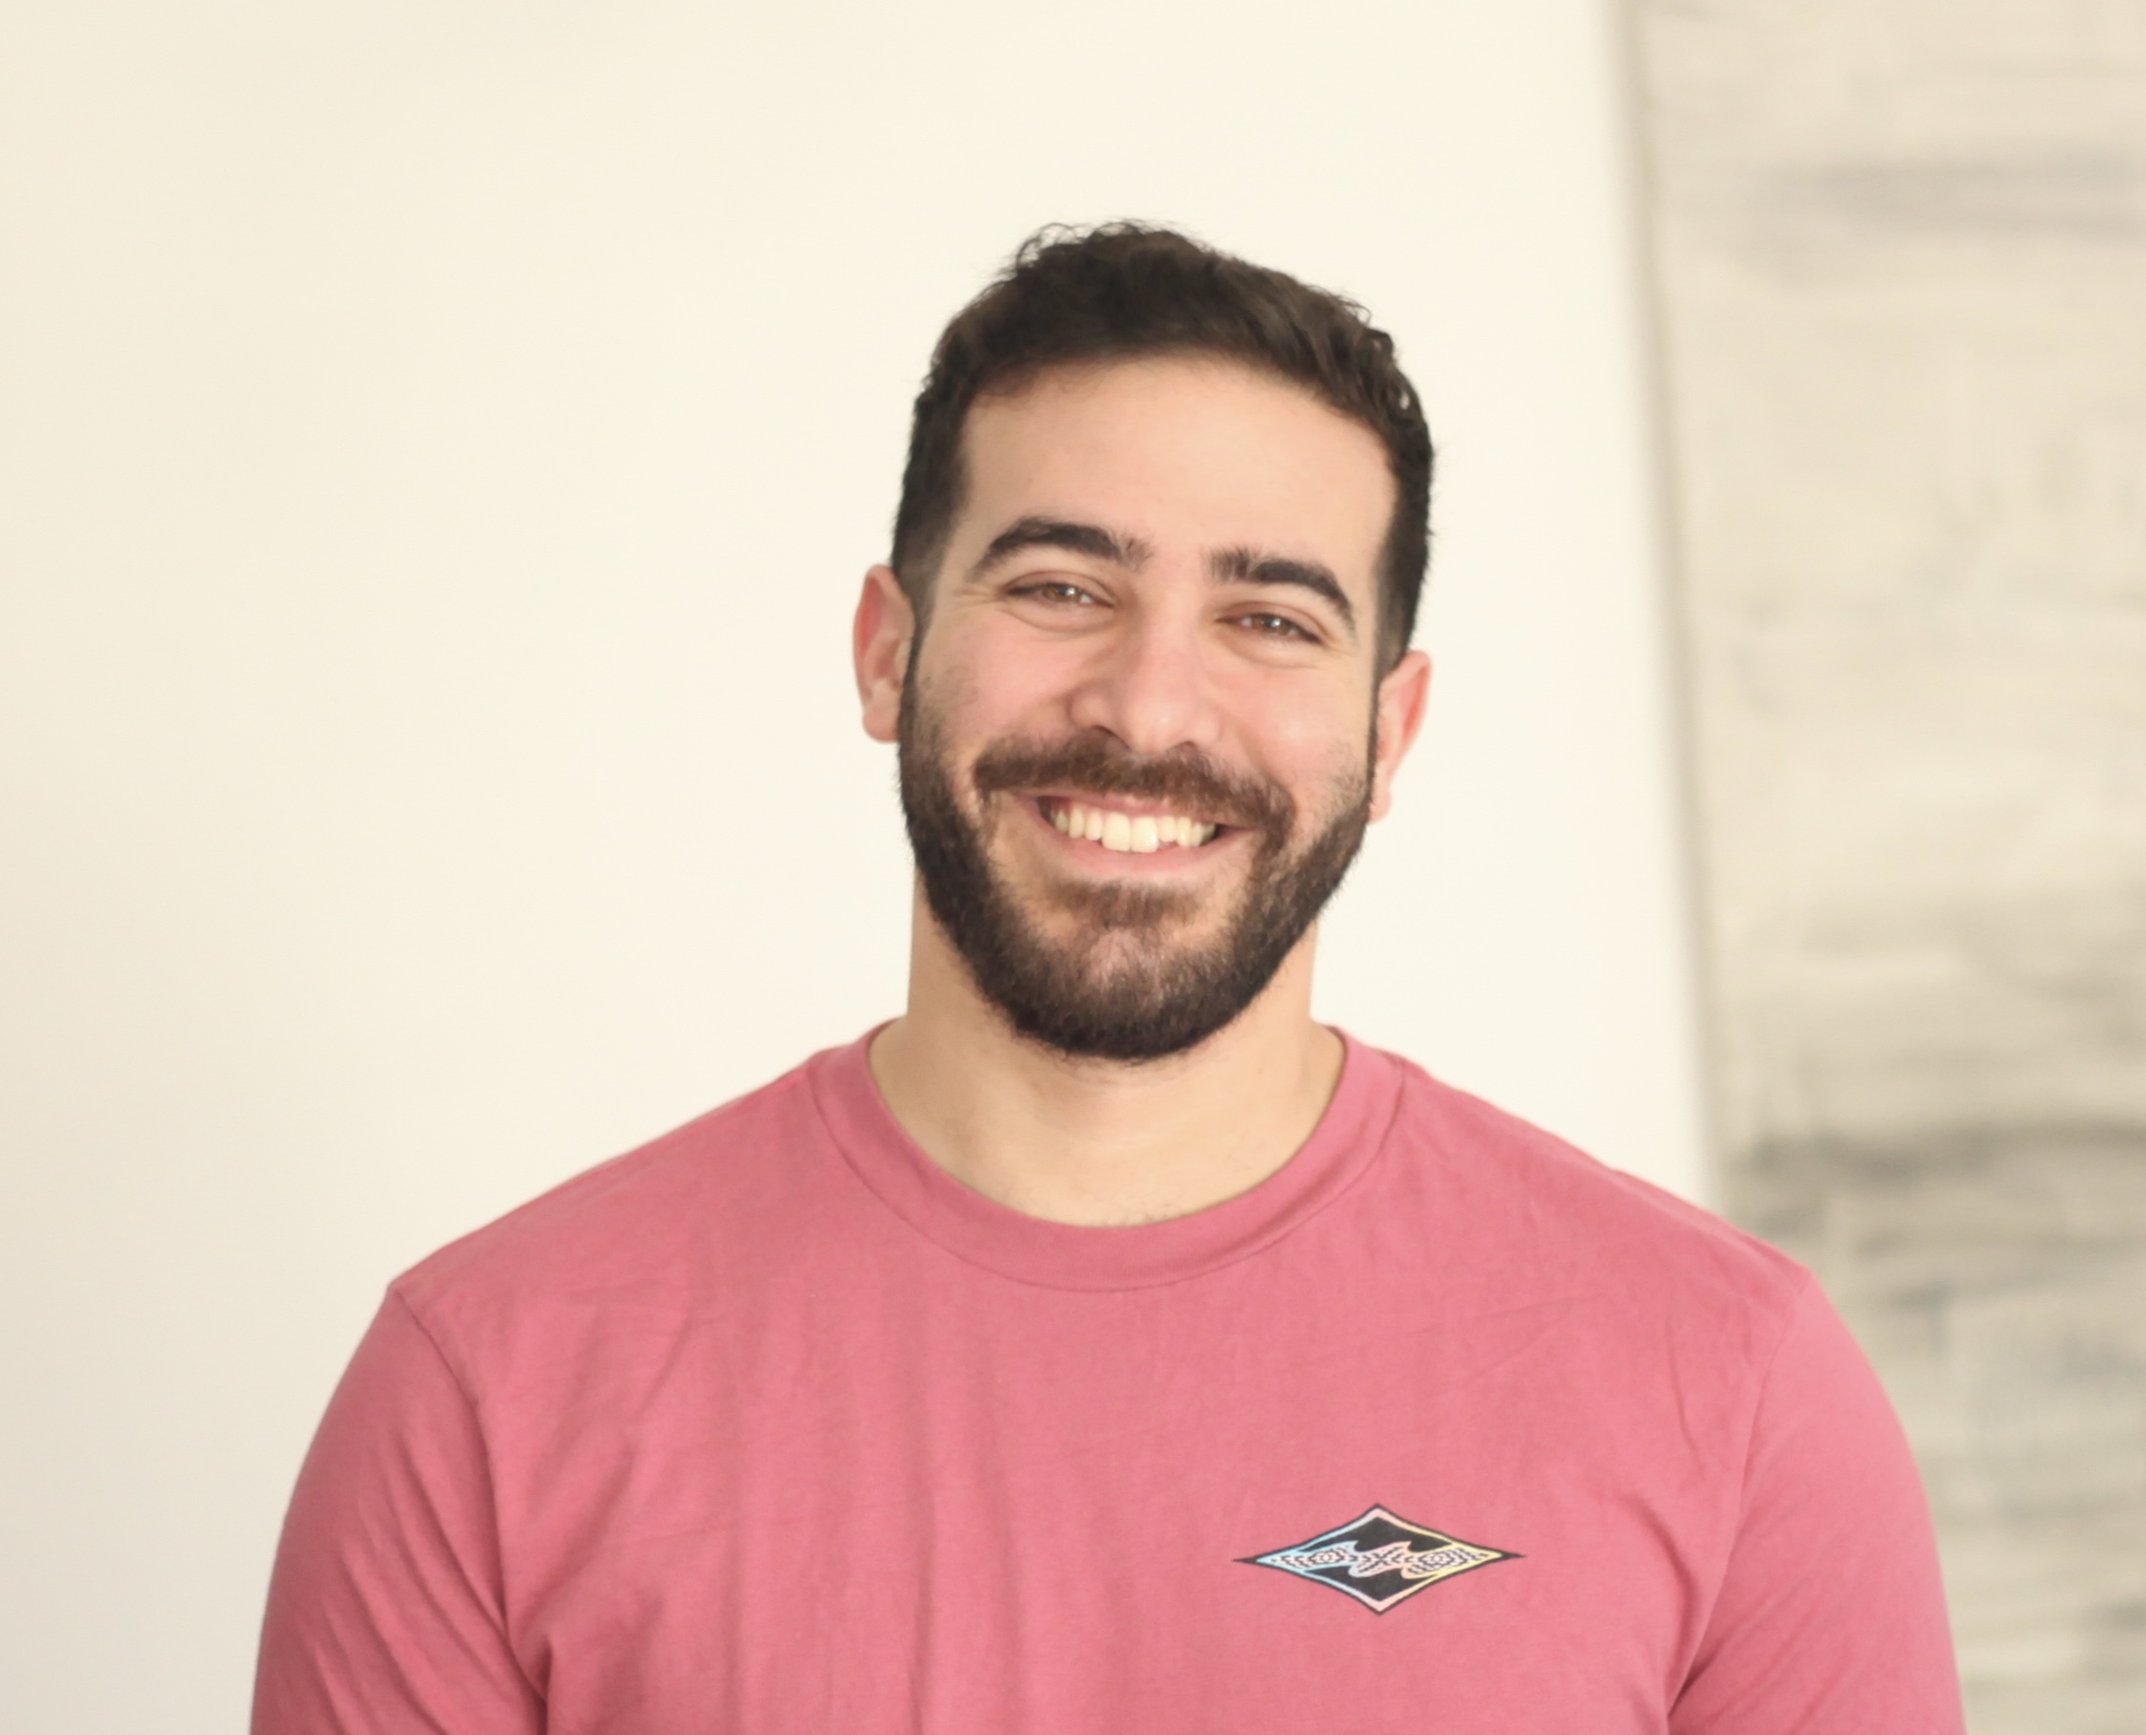
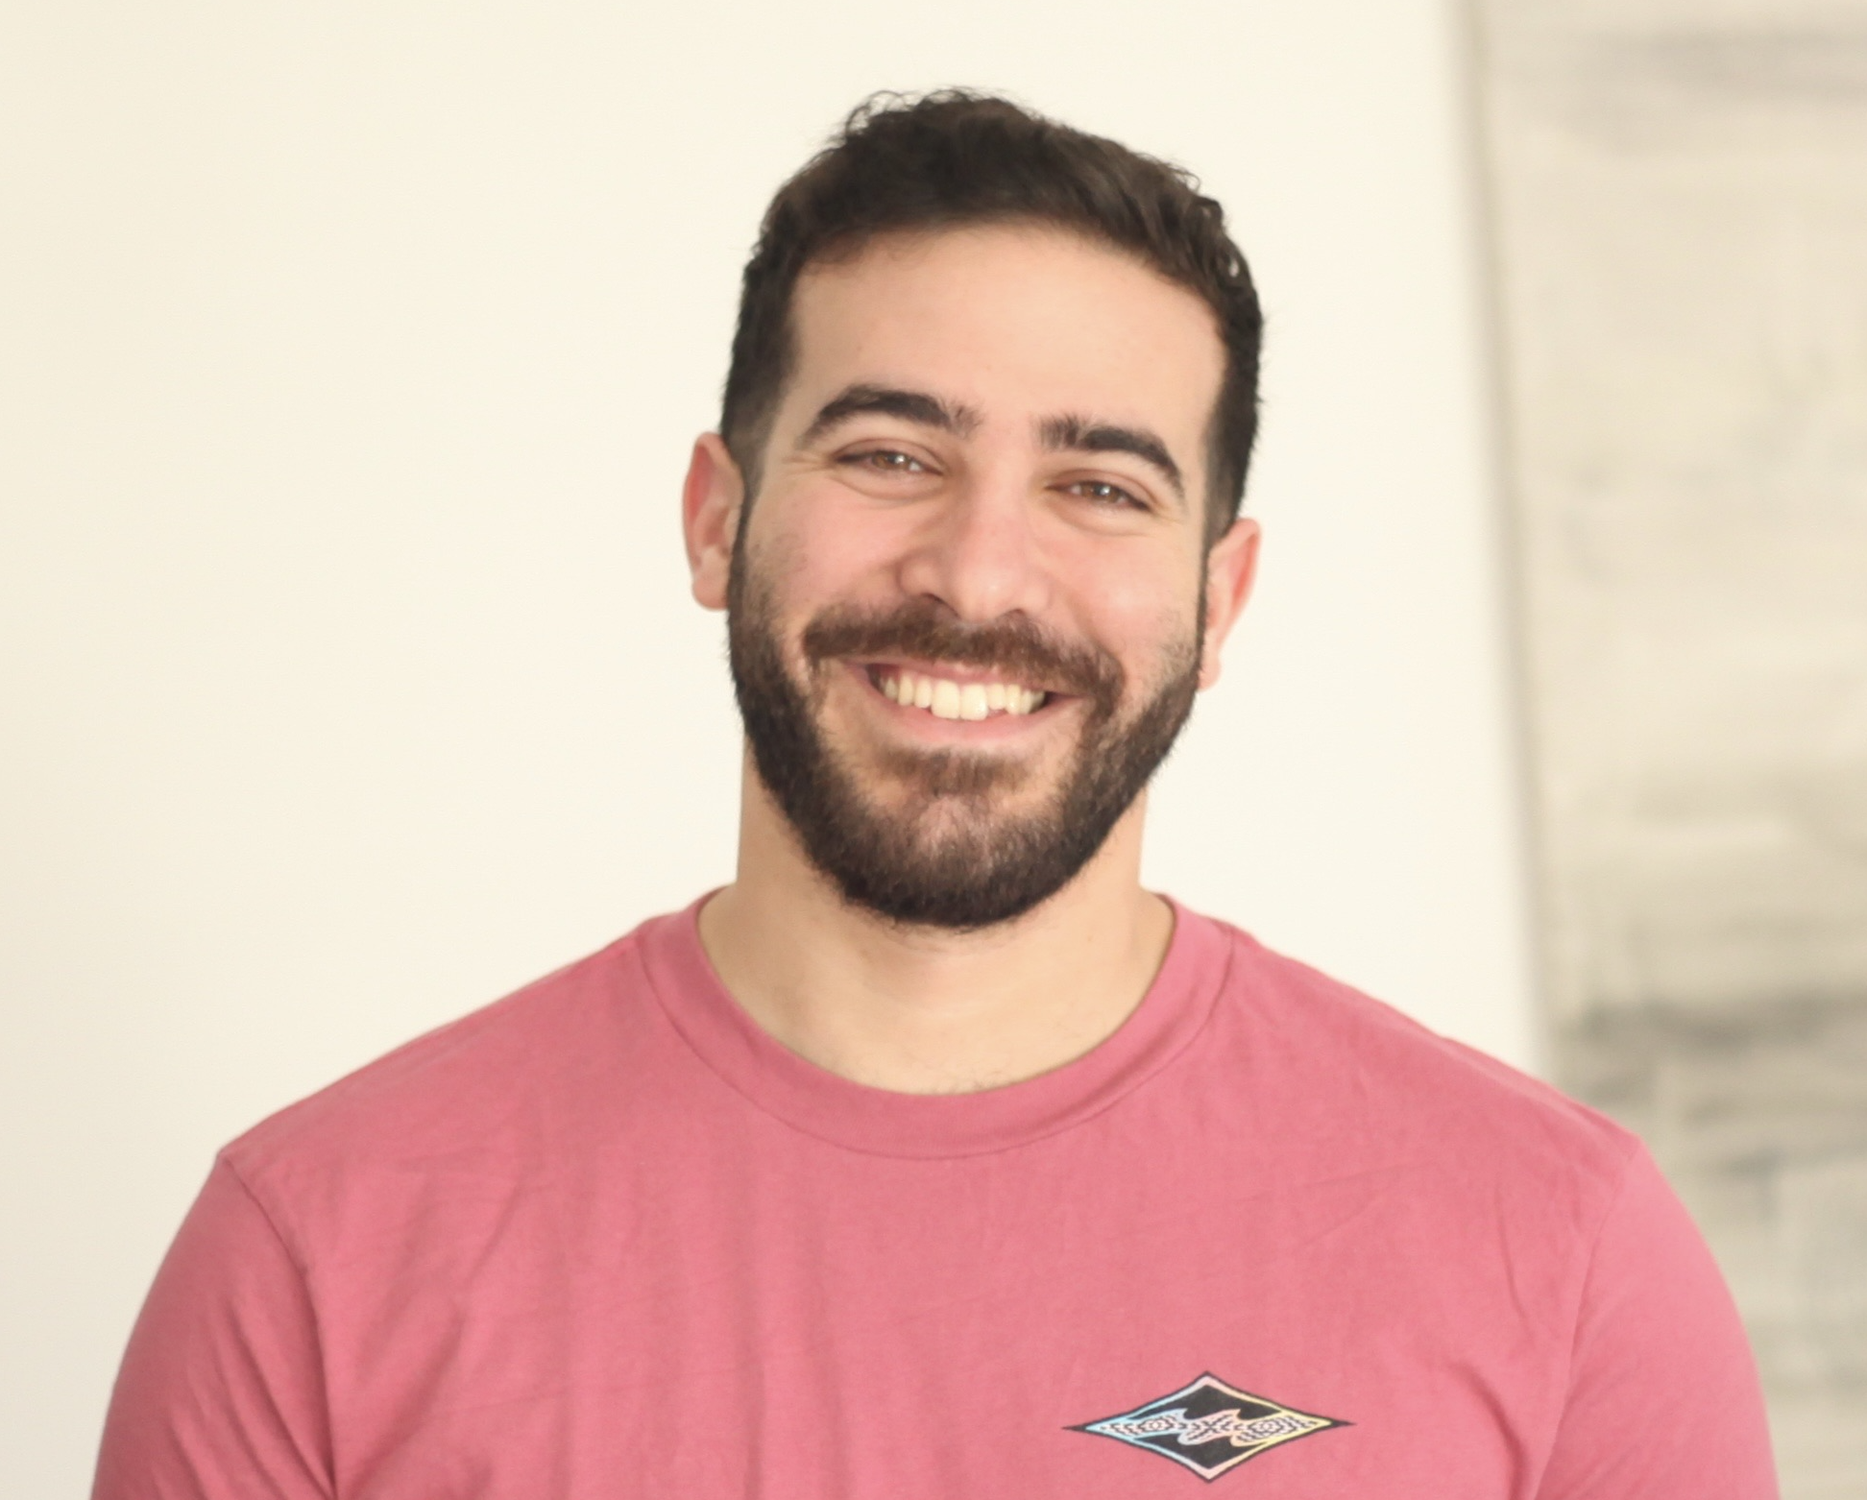
about fix

diff --git a/assets/css/views/About.css b/assets/css/views/About.css
@@ -25,7 +25,7 @@
 }
 
 .dev1-img {
-  width: 20em;
+  width: 25em;
   border-radius: 500px;
   box-shadow: 0 0 20px 0px #ccc;
 
